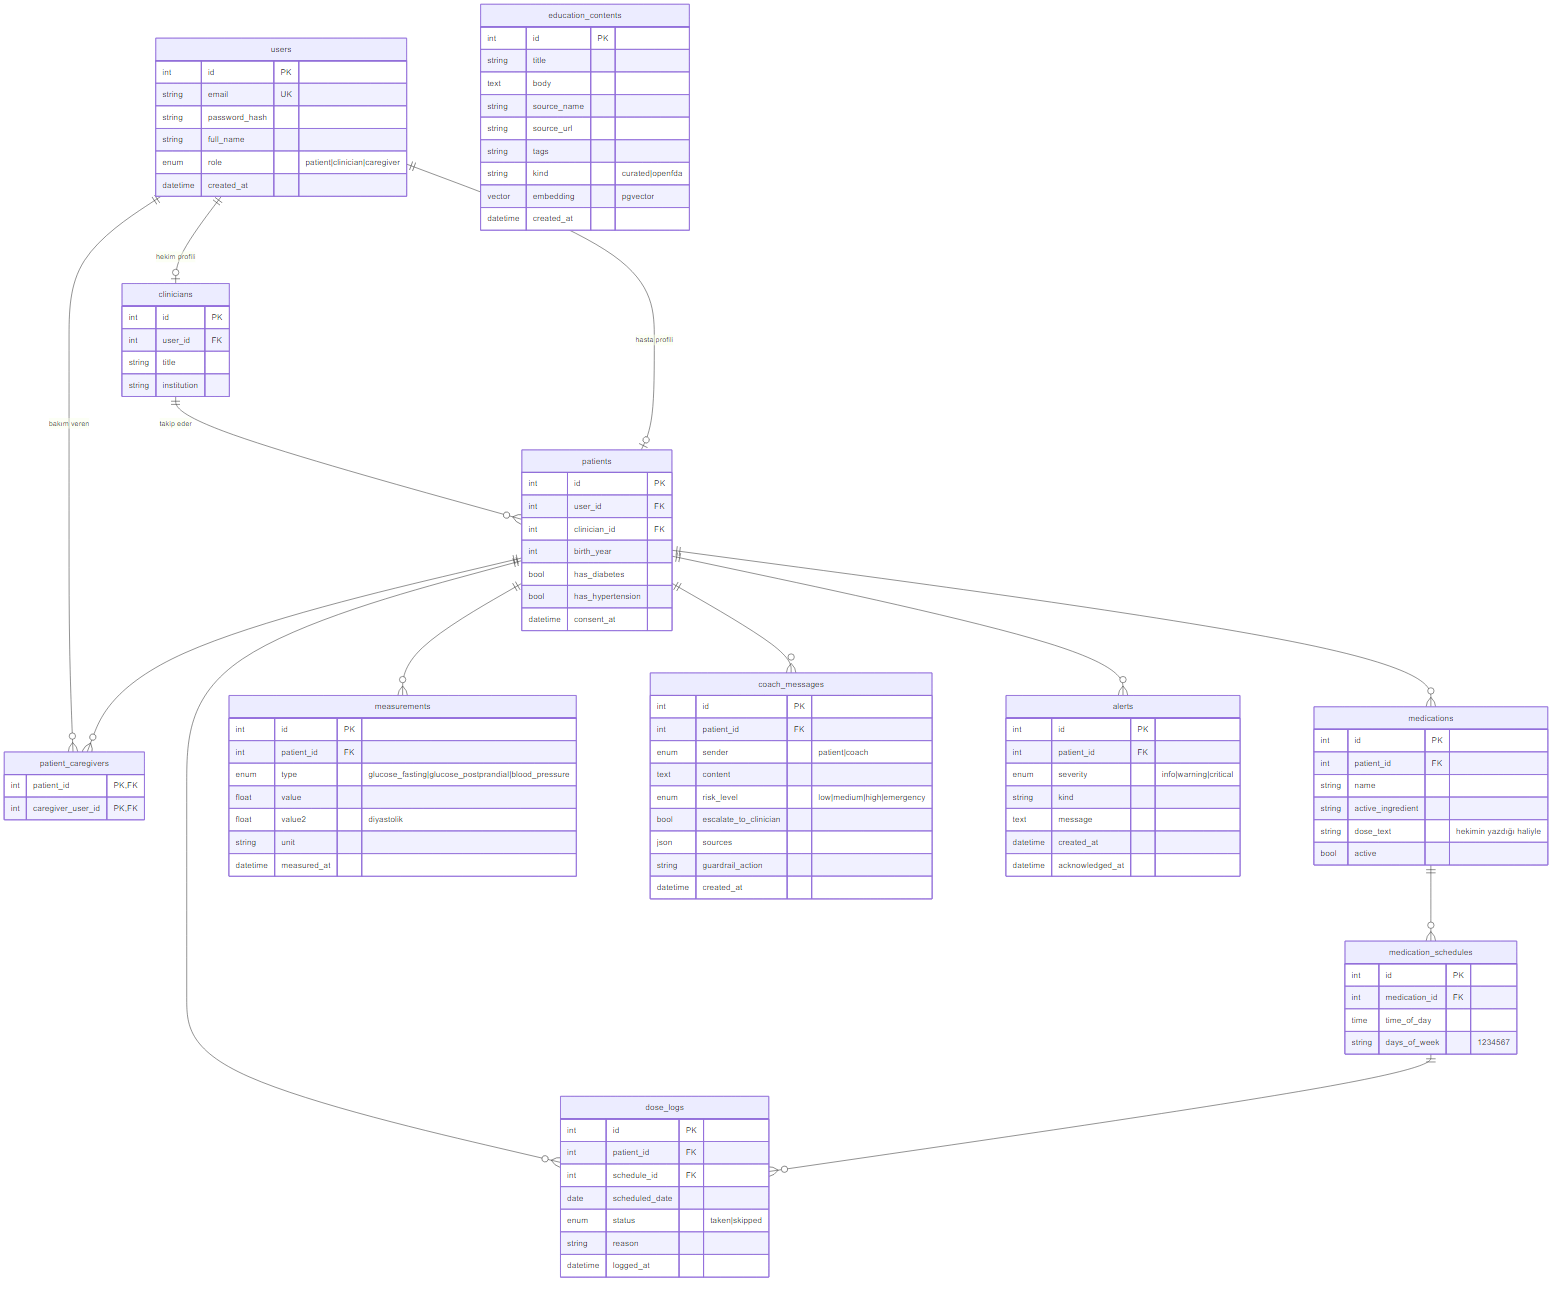
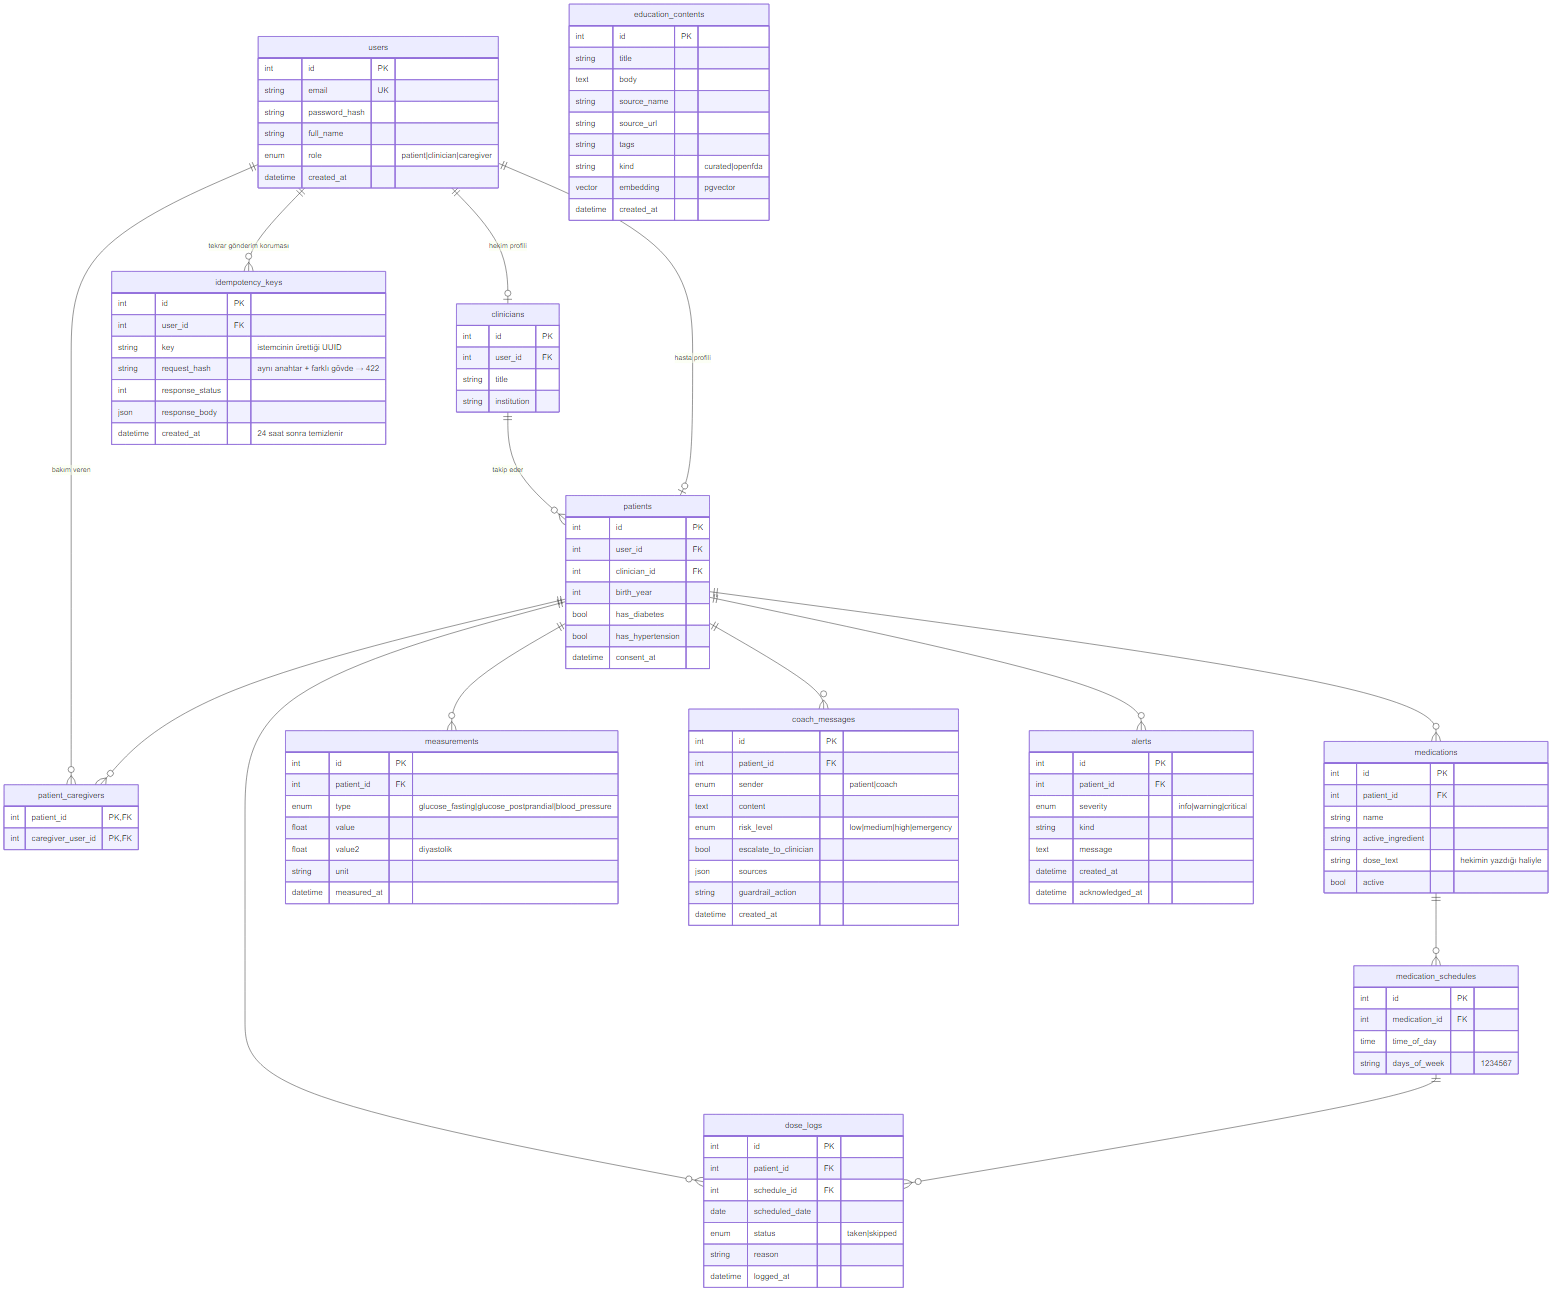
M1: ER diyagramına idempotency_keys tablosu eklendi

diff --git a/docs/M1/06-er-diyagrami.md b/docs/M1/06-er-diyagrami.md
@@ -1,6 +1,6 @@
 # ER Diyagramı (taslak)
 
-M1 aşamasındaki **planlanan** veri modelidir. Proje tanımındaki 10 tabloyu (users, patients, clinicians, medications, medication_schedules, dose_logs, measurements, coach_messages, alerts, education_contents) ve bakım veren ilişkisi için bir bağlantı tablosunu içerir. Kesin şema M2'de Alembic migration'larıyla oluşturulacaktır; web push abonelikleri, hatırlatma kayıtları ve LLM maliyet kaydı gibi yardımcı tablolar ilgili teslimde eklenecektir.
+M1 aşamasındaki **planlanan** veri modelidir. Proje tanımındaki 10 tabloyu (users, patients, clinicians, medications, medication_schedules, dose_logs, measurements, coach_messages, alerts, education_contents) ve bakım veren ilişkisi için bir bağlantı tablosunu içerir. Tekrar gönderimlere karşı `idempotency_keys` tablosu da plana eklenmiştir. Kesin şema M2'de Alembic migration'larıyla oluşturulacaktır; web push abonelikleri, hatırlatma kayıtları ve LLM maliyet kaydı gibi yardımcı tablolar ilgili teslimde eklenecektir.
 
 ![er-diyagrami](diyagramlar/er-diyagrami.png)
 
@@ -20,6 +20,7 @@ erDiagram
     patients ||--o{ measurements : ""
     patients ||--o{ coach_messages : ""
     patients ||--o{ alerts : ""
+    users ||--o{ idempotency_keys : "tekrar gönderim koruması"
 
     users {
         int id PK
@@ -100,6 +101,15 @@ erDiagram
         datetime created_at
         datetime acknowledged_at
     }
+    idempotency_keys {
+        int id PK
+        int user_id FK
+        string key "istemcinin ürettiği UUID"
+        string request_hash "aynı anahtar + farklı gövde → 422"
+        int response_status
+        json response_body
+        datetime created_at "24 saat sonra temizlenir"
+    }
     education_contents {
         int id PK
         string title
@@ -121,4 +131,5 @@ erDiagram
 - `medications.dose_text` hekimin yazdığı metindir; sistem bu alanı yorumlamaz ve değiştirmez (doz önerisi kapsam dışı).
 - `coach_messages` koçun structured output alanlarını (`risk_level`, `escalate_to_clinician`, `sources`) ve guardrail kararını saklar; hekim yalnızca risk bayraklı mesajları görür.
 - `education_contents` RAG korpusudur: `curated` kayıtlar elle seçilmiş Türkçe hasta eğitim metinleri, `openfda` kayıtları ilaç etiketlerinden üretilen özetlerdir.
+- `idempotency_keys (user_id, key)` tekildir. Yazma isteği ile anahtar aynı transaction'da kaydedilir; aynı anahtar tekrar gelirse kayıtlı yanıt aynen döner (bkz. [mimari §3](05-mimari.md#3-bir-isteğin-backend-katmanlarından-geçişi)). M2'de eklenir.
 - Hasta silindiğinde kişisel tüm kayıtları (cascade) silinir.
